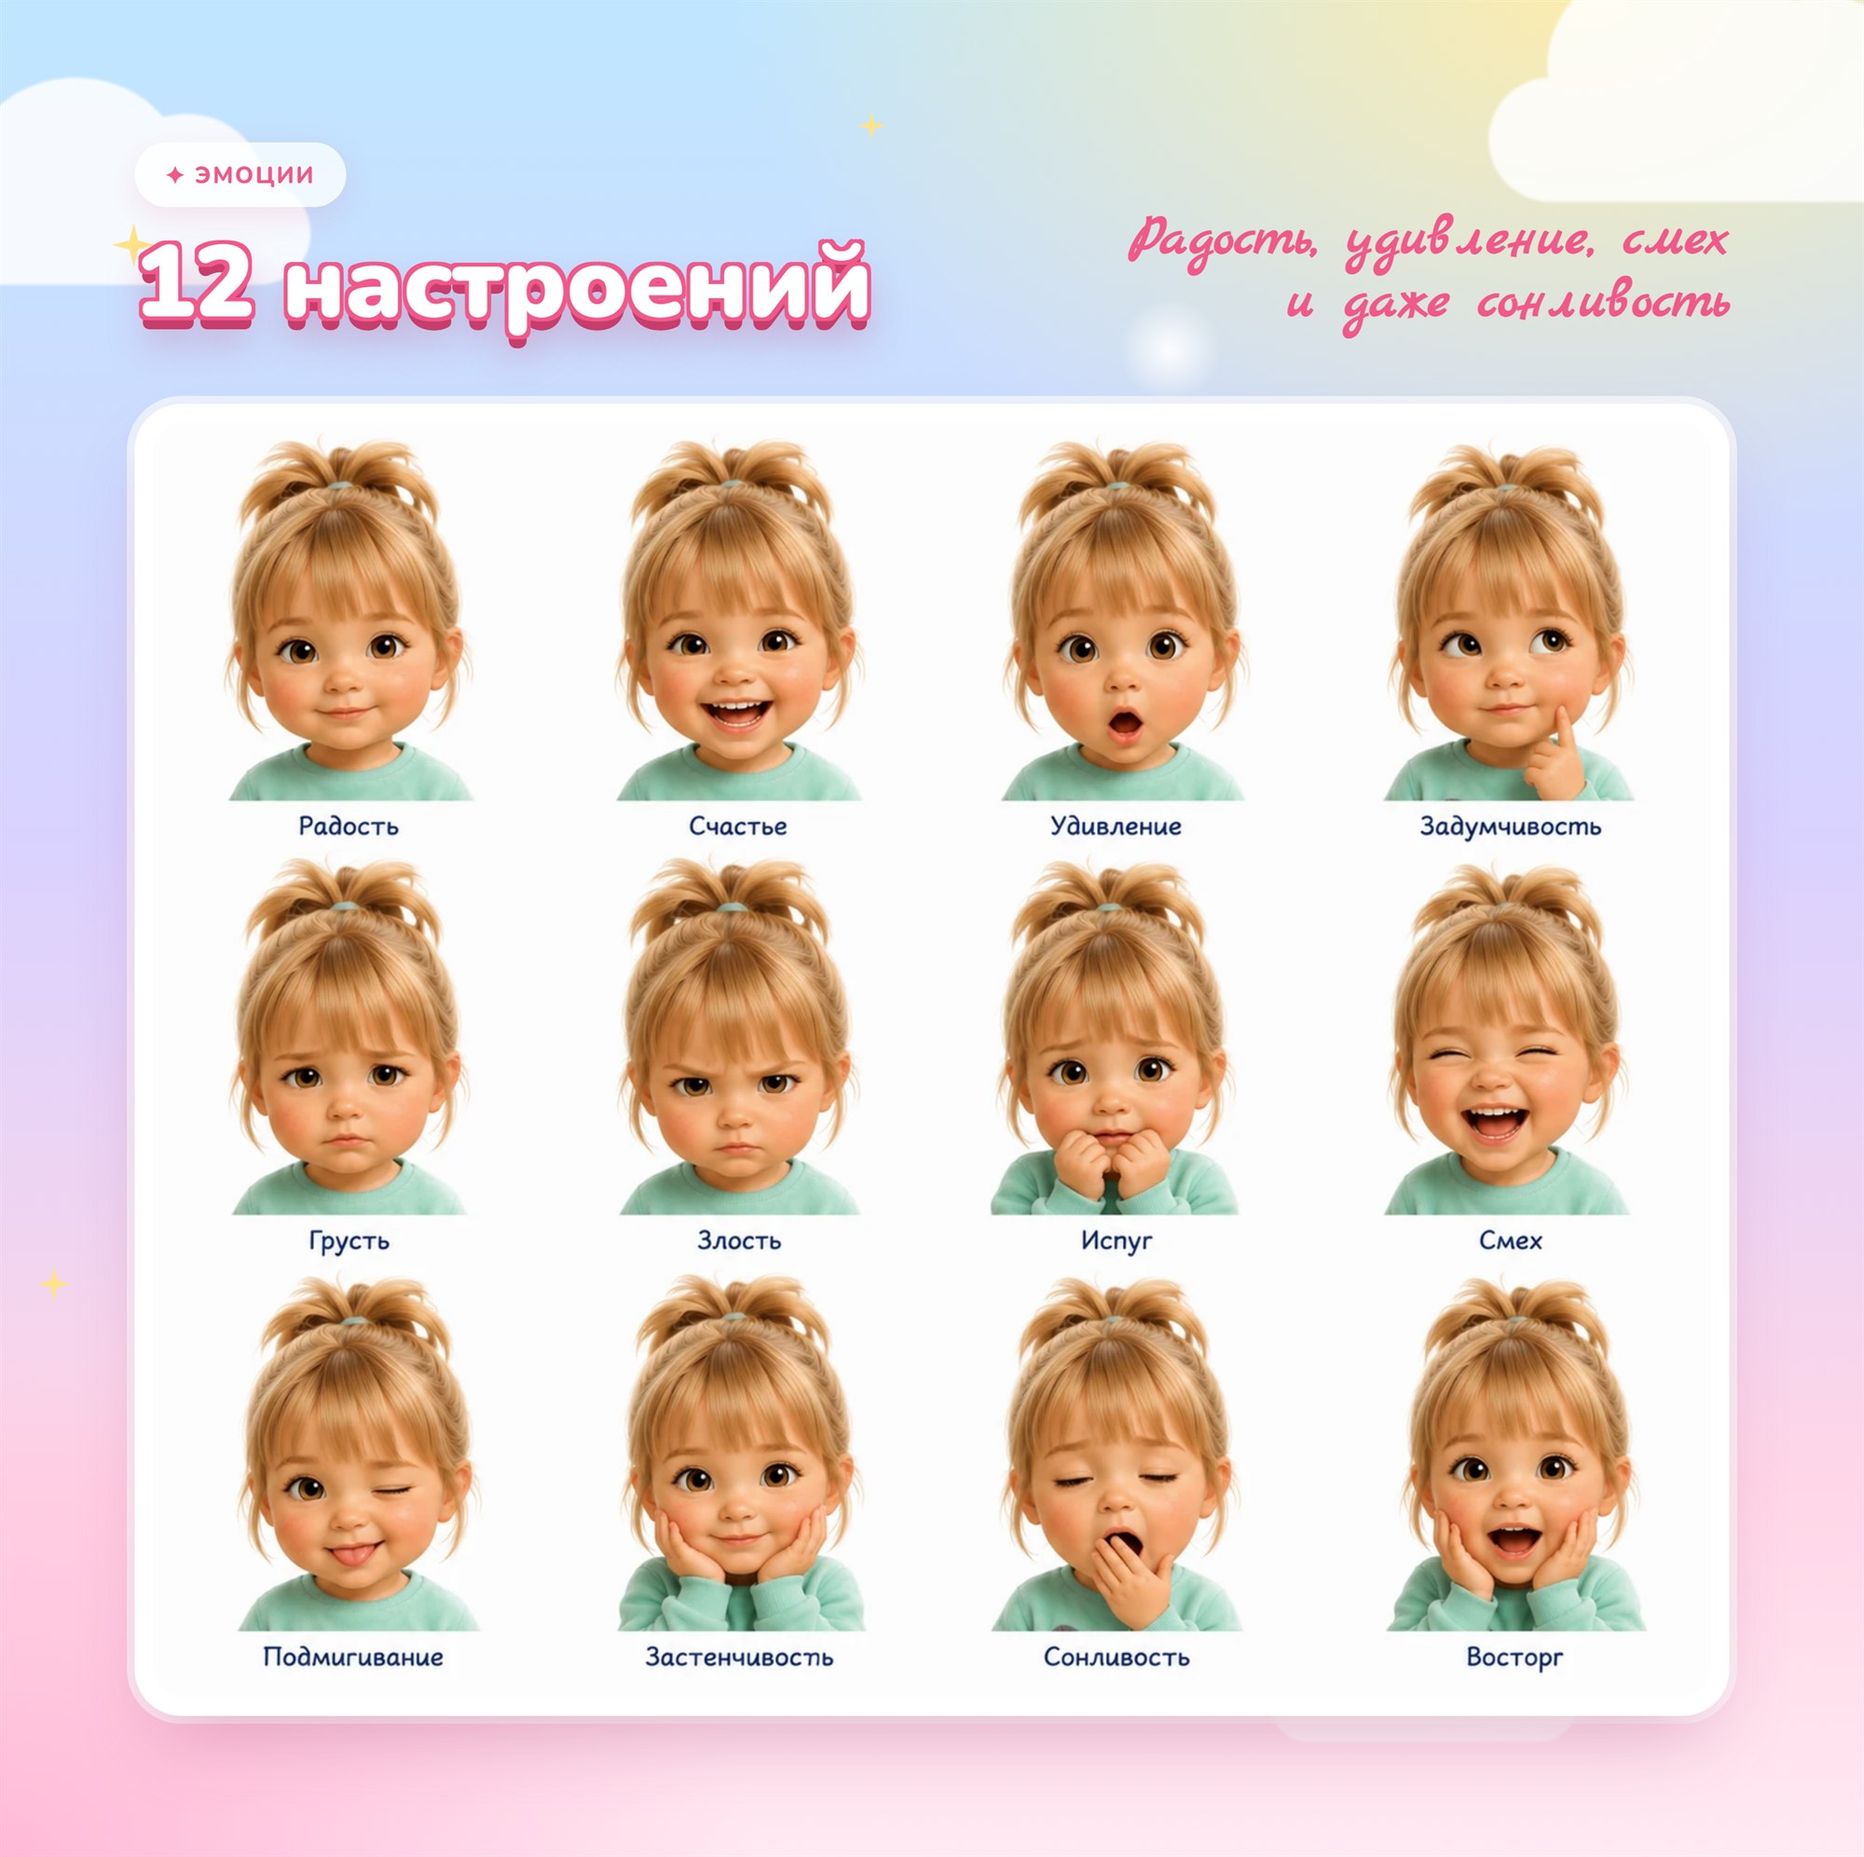
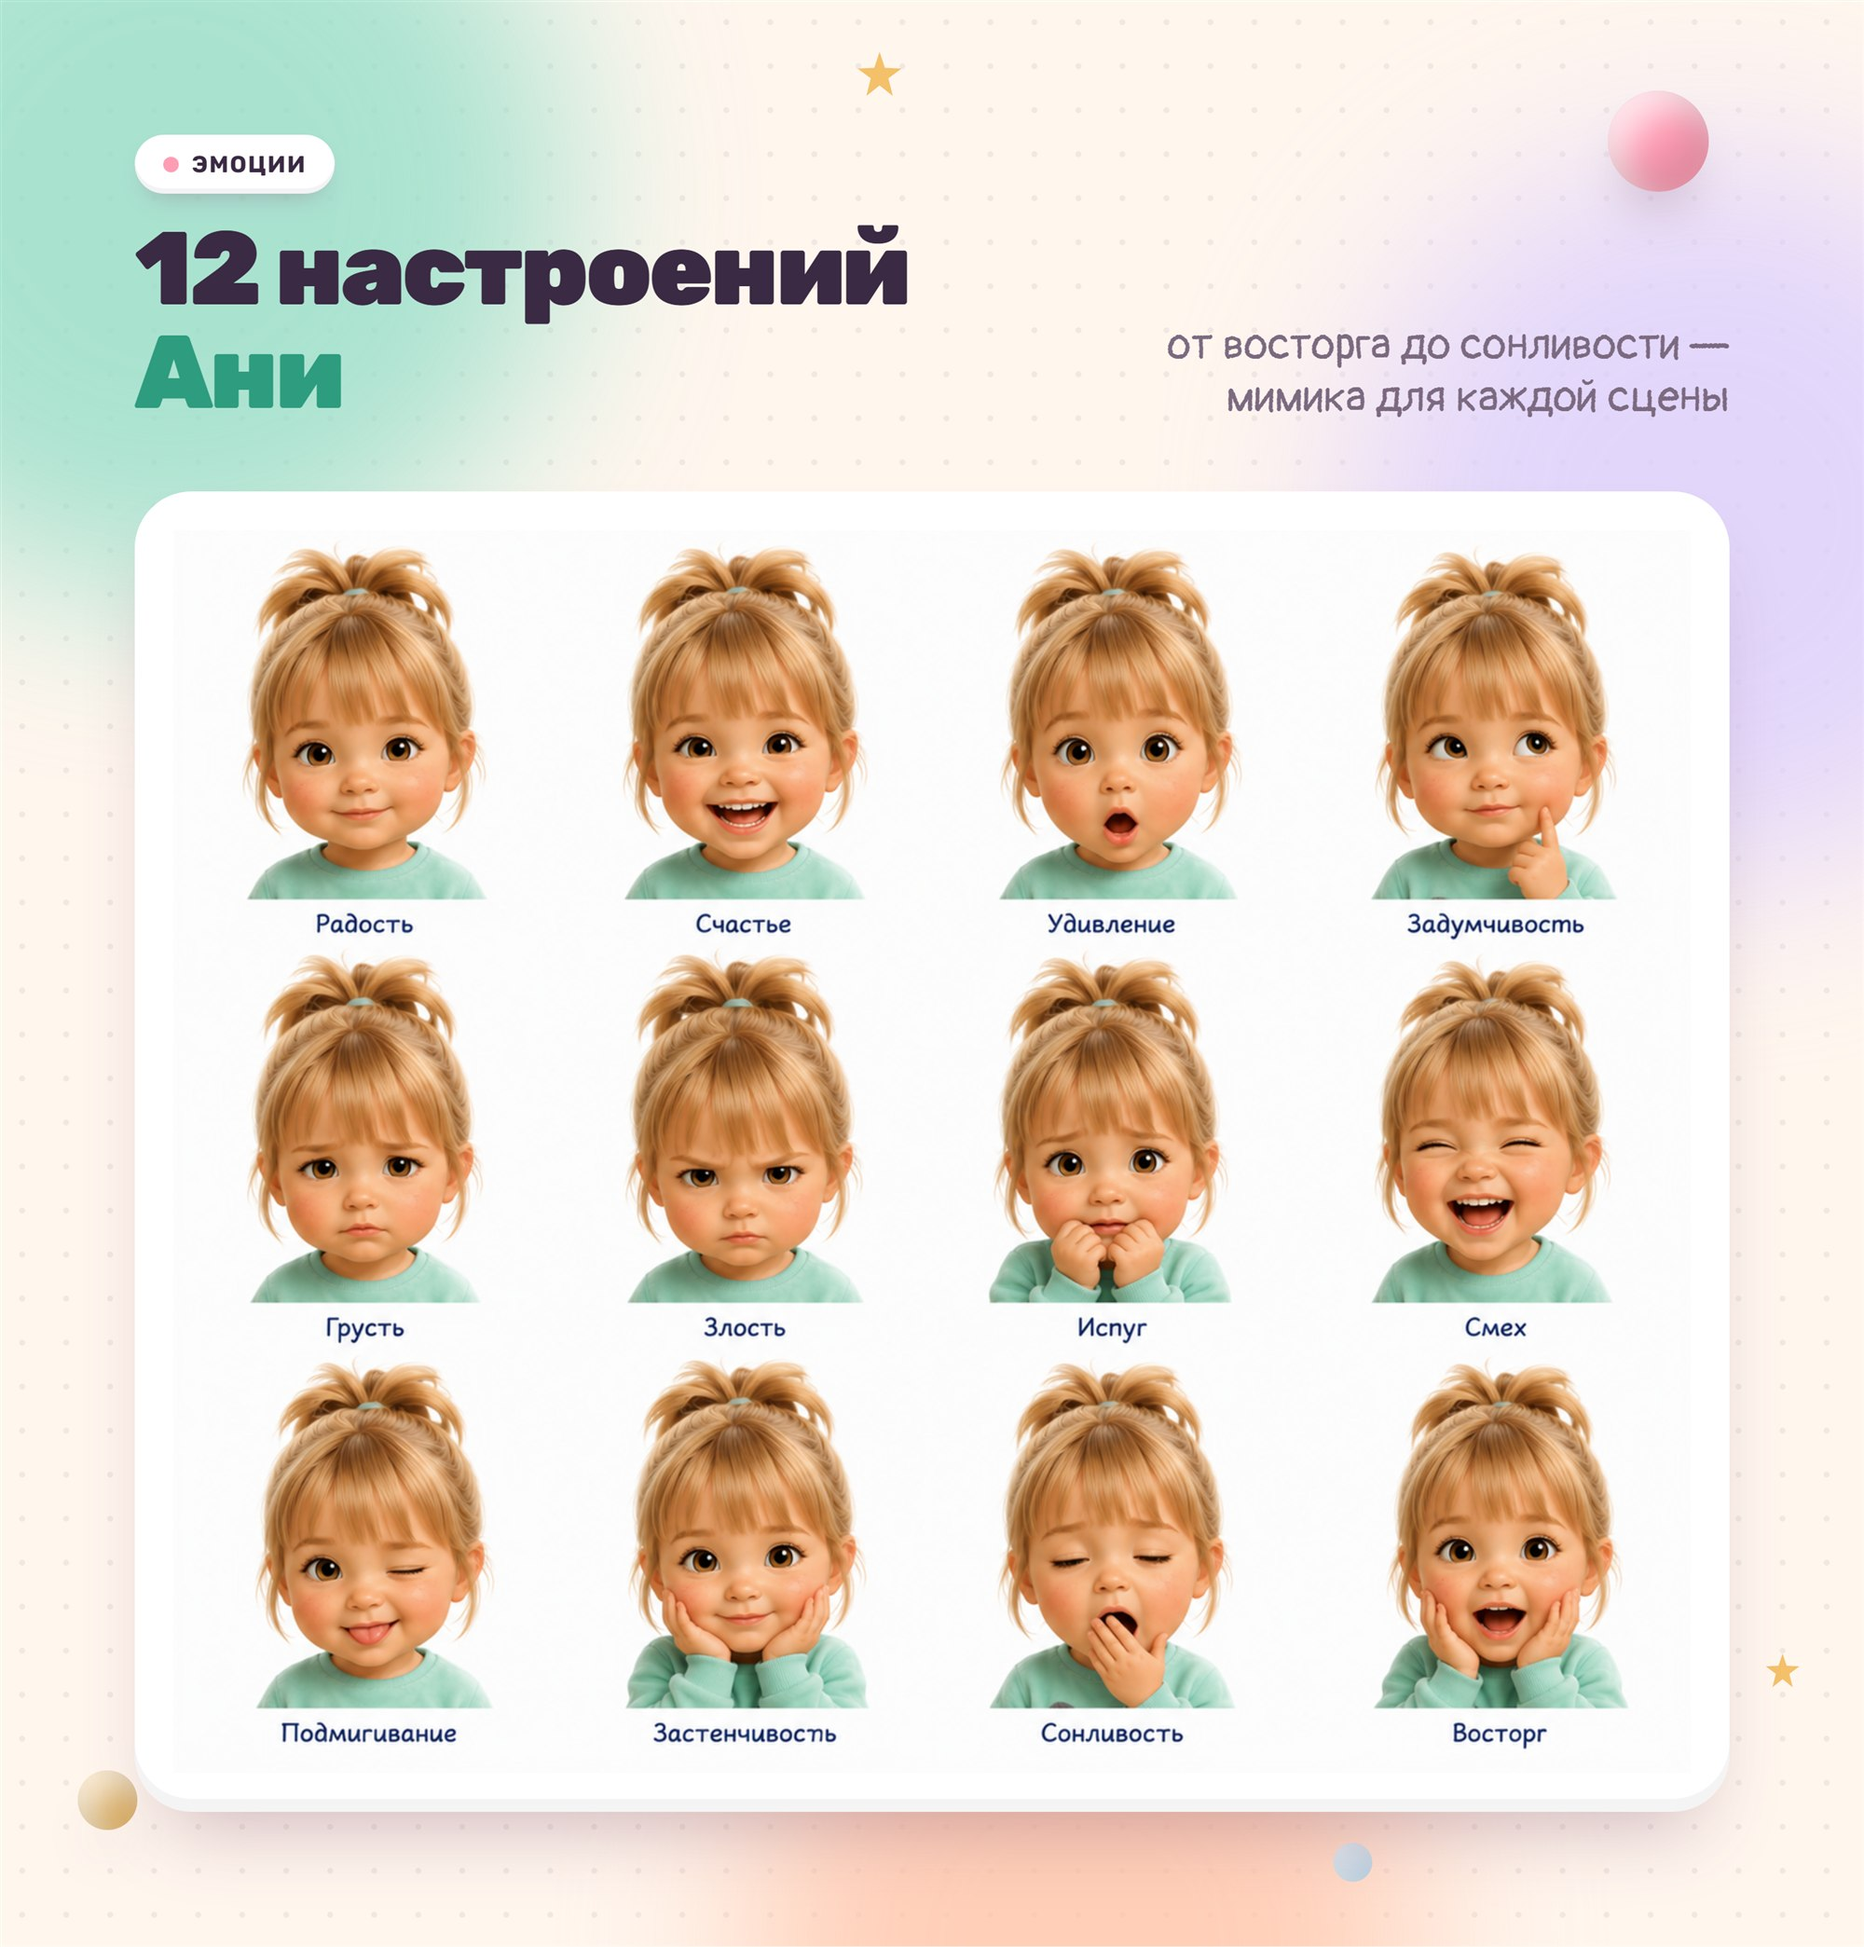
Малышка Аня: новый кейс в стиле claymorphism, стикерпак

diff --git a/index.html b/index.html
@@ -686,7 +686,7 @@ dialog[open]{animation:pop .45s var(--ease)}
 
   // ---------- Окно кейса ----------
   var CASES = {
-    anya: { title: "Малышка Аня", sub: "AI-мультфильм по фото ребёнка", noBehance: true, task: "Сделать мультфильм, где главная героиня — настоящий ребёнок: узнаваемая и одинаковая в каждом кадре.", done: "Персонаж по фото, лист из 12 эмоций, развороты, сцены истории, анимация и афиша премьеры.", scope: "Подойдёт для подарка на день рождения, семейных видео, детских брендов и блогеров.", imgs: ["anya-cover", "anya-character", "anya-emotions", "anya-scenes", "anya-poster"] },
+    anya: { title: "Малышка Аня", sub: "AI-мультфильм по фото ребёнка", noBehance: true, task: "Сделать мультфильм, где главная героиня — настоящий ребёнок: узнаваемая и одинаковая в каждом кадре.", done: "Персонаж по фото, развороты и палитра героини, 12 эмоций, стикерпак для Telegram, раскадровка, анимация и афиша премьеры.", scope: "Подойдёт для подарка на день рождения, семейных видео, детских брендов и блогеров.", imgs: ["anya-cover", "anya-character", "anya-emotions", "anya-stickers", "anya-scenes", "anya-poster"] },
     usadba: { title: "Усадьба", sub: "Лендинг строителя загородных домов", behance: "https://www.behance.net/gallery/256620375/lending-stroitelnoj-kompanii-zagorodnyh-domov", task: "Сайт, после которого семья оставит заявку на дом за 7–10 млн ₽. Снять страхи: рост сметы, срыв сроков, стройку «вслепую».", done: "Тёмный стиль с сеткой чертежа и стеклом, живой калькулятор с чертежом фасада, дом собирается по слоям при прокрутке, дизайн-система в Figma.", scope: "Лендинг на 9 блоков, версии 1440 и 390 px, макеты и компоненты в Figma.", imgs: ["usadba-hero", "usadba-calc", "usadba-projects", "usadba-stages", "usadba-mobile"] },
     cura: { title: "CURA", sub: "Приложение клиники", task: "Записаться к врачу за минуту — без звонков в регистратуру и очередей.", done: "Путь пациента, вайрфреймы, 9 экранов, дизайн-система на 23 переменных, пак из 37 иконок, прототип. Проверила контраст по WCAG.", scope: "iOS: главная, поиск по симптому, список врачей, карточка врача, время, оформление с оплатой, визиты, профиль.", imgs: ["cura-cover", "cura-screens", "cura-flow", "cura-ds"] },
     hanami: { title: "Ханами", sub: "Лендинг туров на цветение сакуры", noBehance: true, task: "Убедить купить тур за 300 000 ₽: снять страх прилететь к голым веткам.", done: "Арт-направление «японский журнал», волна цветения в виде схемы метро, туры списком, форма брони, анимация при прокрутке.", scope: "Лендинг на 5 разделов, версии для компьютера и телефона.", imgs: ["hanami-cover", "hanami-tours", "hanami-wave", "hanami-stages", "hanami-book"] },
